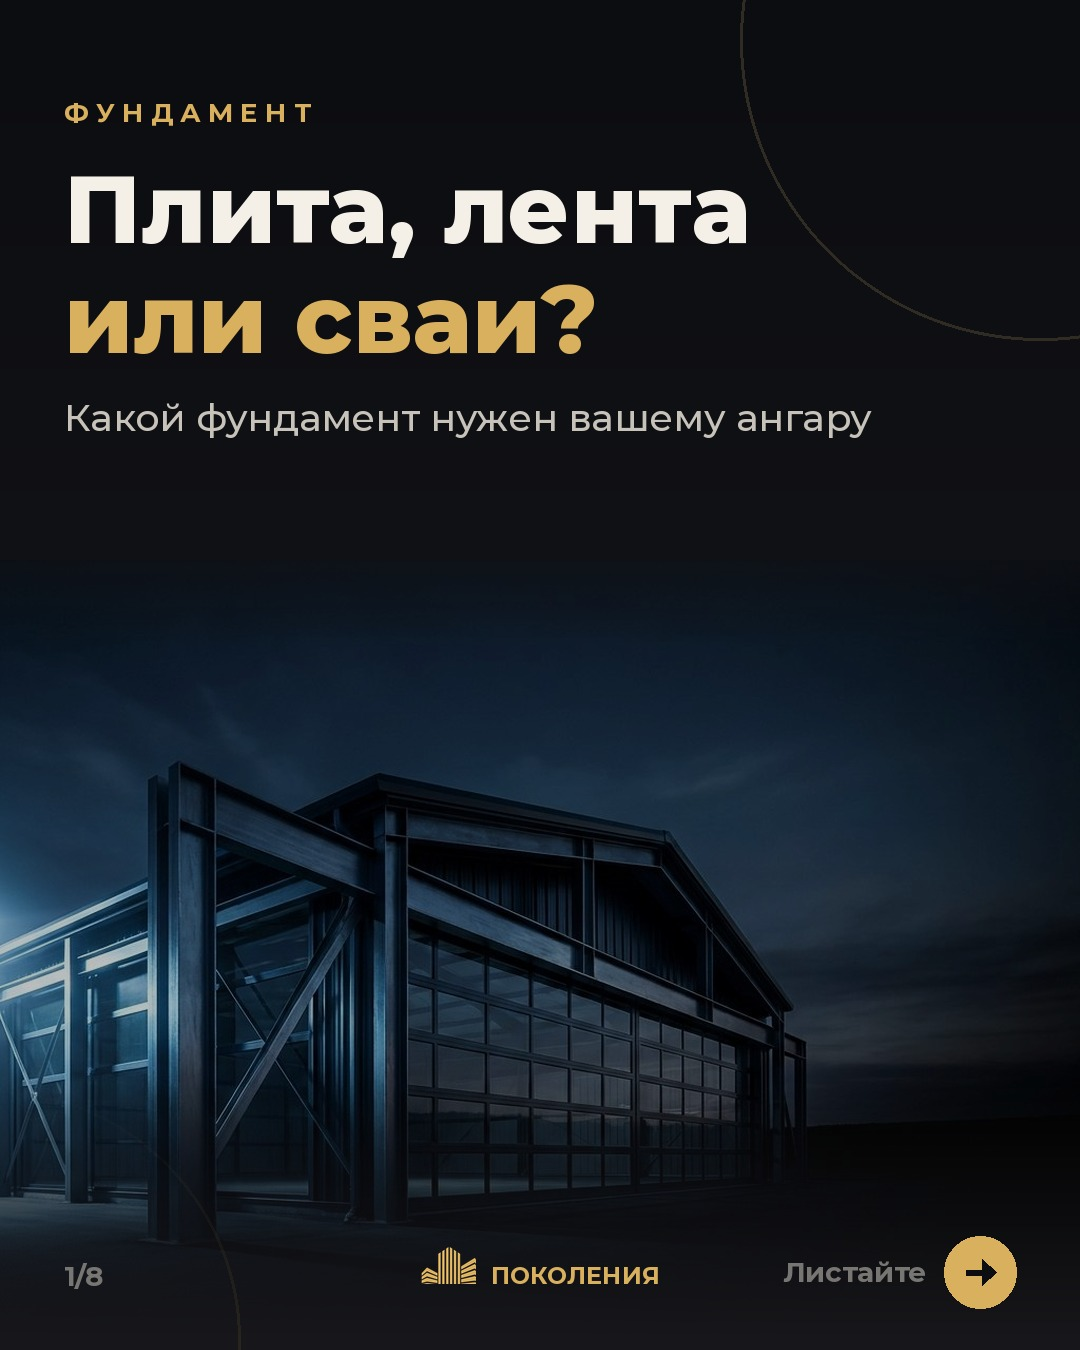
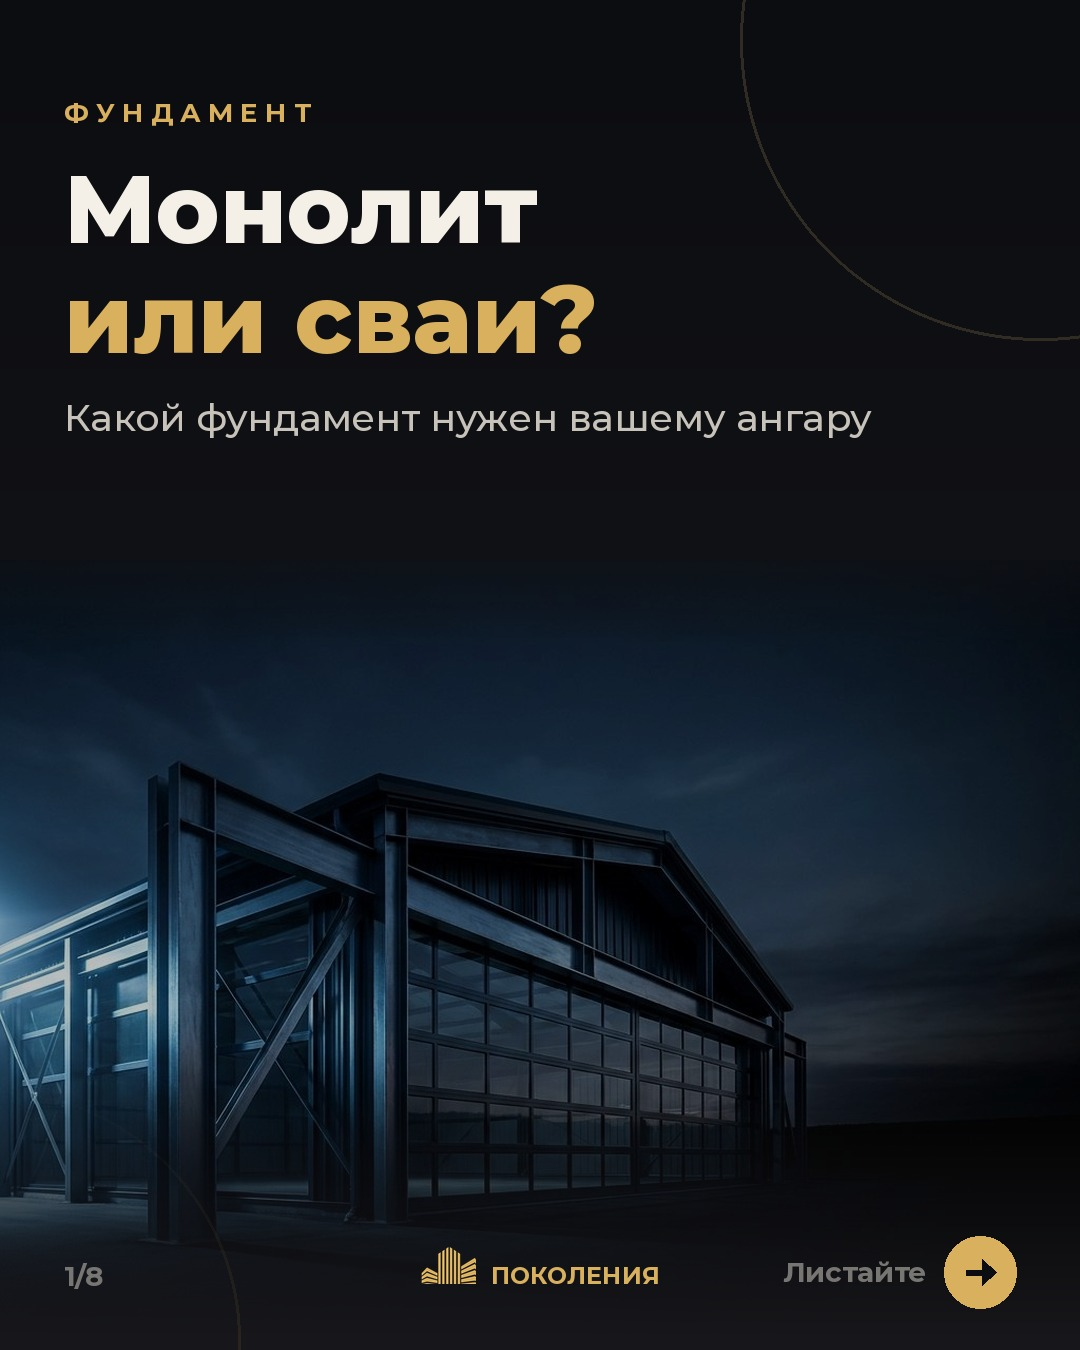
Add carousel #5 about foundations (not published)
Claude-Session: https://claude.ai/code/session_019hh1tyQfnmNP9Rdxadr1Bk

Changed region(s): [[0.0611, 0.1244, 0.7028, 0.1867]]

diff --git a/brand/carousel_fundament.py b/brand/carousel_fundament.py
@@ -1,0 +1,81 @@
+"""Карусель №5 «Плита, лента или сваи?» — 8 слайдов. По словам владельца: чаще монолит; сваи — для некапитальных или при проблемном грунте."""
+import os, shutil
+from PIL import Image, ImageDraw
+ROOT=os.path.dirname(os.path.abspath(__file__))+'/..'
+src=open(ROOT+'/brand/carousel_ot.py').read().split('\ndef s2():')[0]
+g={'__file__':ROOT+'/brand/carousel_ot.py'}; exec(compile(src,'ot','exec'),g)
+F,W,H,GOLD,WHT,TXT,GRY,X0,BG1,RED=[g[k] for k in 'F W H GOLD WHT TXT GRY X0 BG1 RED'.split()]
+background,footer,rich,head,mark,bullets=[g[k] for k in 'background footer rich head mark bullets'.split()]
+OUT=ROOT+'/drafts/carousel_fundament/'; os.makedirs(OUT,exist_ok=True)
+BLUE=(120,160,190)
+
+def s2():
+    im=background(); d=ImageDraw.Draw(im)
+    y=head(d,'К А К   В Ы Б И Р А Ю Т',[('3 вещи решают',WHT),('всё',GOLD)],96)+40
+    for n,t,sub in [('1','Грунт','что под участком: песок, глина, торф, вода'),('2','Нагрузки','каркас, снег, оборудование, техника на полу'),('3','Статус','нужен ли капитальный объект с регистрацией в ЕГРН')]:
+        d.text((X0,y),n,font=F(80),fill=GOLD); d.text((X0+90,y+6),t,font=F(54),fill=WHT)
+        y=rich(d,X0+90,y+80,[(sub,0)],38,W-2*X0-90)+50
+    footer(im,2); return im
+
+def s3():
+    im=background(); d=ImageDraw.Draw(im)
+    y=head(d,'Ч А Щ Е   В С Е Г О   Д Е Л А Е М',[('Монолит',GOLD)],110)
+    y=rich(d,X0,y+20,[('Монолитный ростверк или лента под колонны',1),('+ бетонная плита пола.',0)],48,W-2*X0)+80
+    for t in ['Держит тяжёлый каркас и снег','Пол сразу — под технику и стеллажи','Капитальный объект — можно в ЕГРН','Работает на большинстве грунтов']:
+        mark(d,X0,y+6,True); y=max(rich(d,X0+70,y,[(t,1)],48,W-2*X0-70),y+60)+56
+    footer(im,3); return im
+
+def s4():
+    im=background(); d=ImageDraw.Draw(im)
+    y=head(d,'К О Г Д А   С В А И',[('Сваи —',WHT),('в двух случаях',GOLD)],90)+40
+    for n,t,items in [('1','Некапитальный ангар',['Быстровозводимый, сборно-разборный','Не нужна регистрация как недвижимости']),
+                      ('2','Сложный грунт',['Слабый грунт или торф','Высокие грунтовые воды, перепады рельефа'])]:
+        d.rounded_rectangle([X0,y,W-X0,y+330],radius=30,fill=(18,18,21),outline=(80,68,46),width=2)
+        d.text((X0+40,y+30),n,font=F(64),fill=GOLD); d.text((X0+110,y+40),t,font=F(46),fill=WHT)
+        yy=y+130
+        for it in items:
+            d.rounded_rectangle([X0+40,yy+12,X0+62,yy+34],radius=6,fill=GOLD); yy=rich(d,X0+86,yy,[(it,0)],38,W-2*X0-130)+20
+        y+=370
+    footer(im,4); return im
+
+def s5():
+    im=background(); d=ImageDraw.Draw(im)
+    d.polygon([(X0,236),(X0+70,116),(X0+140,236)],outline=GOLD,width=8); d.text((X0+58,150),'!',font=F(64),fill=GOLD)
+    y=head(d,'',[],80)
+    d.text((X0,270),'С Е Р А Я   З О Н А',font=F(28,'700'),fill=GOLD)
+    y=rich(d,X0,320,[('Винтовые сваи и статус ангара',1)],66,W-2*X0,1.15)+40
+    y=rich(d,X0,y,[('Суды решают по-разному:',0),('ангар на винтовых сваях',1),('могут признать и капитальным, и нет.',0)],44,W-2*X0)+50
+    y=rich(d,X0,y,[('Нужна регистрация в ЕГРН, кредит или продажа как недвижимости?',0),('Обсуждаем фундамент до проекта.',1)],44,W-2*X0)
+    footer(im,5); return im
+
+def s6():
+    im=background(); d=ImageDraw.Draw(im)
+    y=head(d,'С Н А Ч А Л А',[('Геология',GOLD),('участка',WHT)],100)
+    y=rich(d,X0,y+20,[('Фундамент без геологии —',0),('выбор «на глаз».',1)],46,W-2*X0)+60
+    y=bullets(d,y,[[('Покажет',0),('тип грунта',1),('и его несущую способность',0)],[('Найдёт',0),('грунтовые воды',1)],[('Подскажет,',0),('монолит или сваи',1)]],44,40)
+    footer(im,6); return im
+
+def s7():
+    im=background(); d=ImageDraw.Draw(im)
+    y=head(d,'С Р А В Н Е Н И Е',[('Монолит',GOLD),('vs сваи',BLUE)])+40
+    cx=[X0,X0+370,X0+650]
+    d.text((cx[1],y),'Монолит',font=F(32,'700'),fill=GOLD); d.text((cx[2],y),'Сваи',font=F(32,'700'),fill=BLUE); y+=70
+    for r in [('Когда','чаще всего','особые случаи'),('Грунт','нормальный','сложный'),('Капитальность','да','серая зона'),('Пол','сразу','отдельно'),('Скорость','дольше','быстрее')]:
+        d.line([(X0,y-16),(W-X0,y-16)],fill=(50,48,44),width=2)
+        d.text((cx[0],y),r[0],font=F(36,'700'),fill=WHT); d.text((cx[1],y),r[1],font=F(36,'500'),fill=TXT); d.text((cx[2],y),r[2],font=F(36,'500'),fill=TXT); y+=100
+    footer(im,7); return im
+
+def s8():
+    im=background(); d=ImageDraw.Draw(im)
+    y=head(d,'Н Е   У В Е Р Е Н Ы ?',[('Пришлите участок',WHT),('и задачу',GOLD)],84)
+    y=rich(d,X0,y+20,[('Подберём фундамент под ваш грунт и нагрузки и посчитаем смету',0),('по статьям.',1)],46,W-2*X0)+90
+    d.text((X0,y),'Нужно построить ангар?',font=F(52),fill=WHT); d.text((X0,y+70),'Пишите в директ',font=F(52),fill=GOLD)
+    d.text((X0,y+190),'Сохраните, чтобы не потерять',font=F(30,'700'),fill=GRY)
+    footer(im,8,last=True); return im
+
+shutil.copy(ROOT+'/drafts/plan_covers/05.jpg',OUT+'01.jpg')
+slides=[Image.open(OUT+'01.jpg').convert('RGBA'),s2(),s3(),s4(),s5(),s6(),s7(),s8()]
+for k,s in enumerate(slides,1): s.convert('RGB').save(OUT+f'{k:02d}.jpg',quality=93)
+sheet=Image.new('RGB',(4*300+50,2*375+30),(40,40,40))
+for k,s in enumerate(slides): sheet.paste(s.convert('RGB').resize((290,362),Image.LANCZOS),(10+(k%4)*310,10+(k//4)*385))
+sheet.save(OUT+'00_preview.jpg',quality=90); print('ok')

diff --git a/brand/plan_covers.py b/brand/plan_covers.py
@@ -13,7 +13,7 @@ COV=[('20.11','Ц Е Н А',[('Ангар 1440 м²:',WHT),('куда уходя
 ('24.11','Ц Е Н А',[('Ангар',WHT),('«от 3 000 ₽/м²»:',GOLD),('что не входит',WHT)],'Почему цена «от» почти никогда не итоговая'),
 ('27.11','В Ы Б О Р',[('Холодный',WHT),('или тёплый',GOLD),('ангар?',WHT)],'Что выбрать под ваш бизнес в Москве и Петербурге'),
 ('01.12','Д О Г О В О Р',[('7 вопросов',GOLD),('подрядчику',WHT),('до подписи',WHT)],'Которые сэкономят вам деньги и нервы'),
-('04.12','Ф У Н Д А М Е Н Т',[('Плита, лента',WHT),('или сваи?',GOLD)],'Какой фундамент нужен вашему ангару'),
+('04.12','Ф У Н Д А М Е Н Т',[('Монолит',WHT),('или сваи?',GOLD)],'Какой фундамент нужен вашему ангару'),
 ('08.12','З А К О Н',[('Разрешение',GOLD),('на ангар:',WHT),('5 шагов',WHT)],'От участка до регистрации в ЕГРН'),
 ('11.12','С Е З О Н',[('Строить ангар',WHT),('зимой?',GOLD)],'Да, если знать 5 правил'),
 ('15.12','О Ш И Б К И',[('5 ошибок',GOLD),('на кровле',WHT)],'За которые заказчик платит дважды'),
